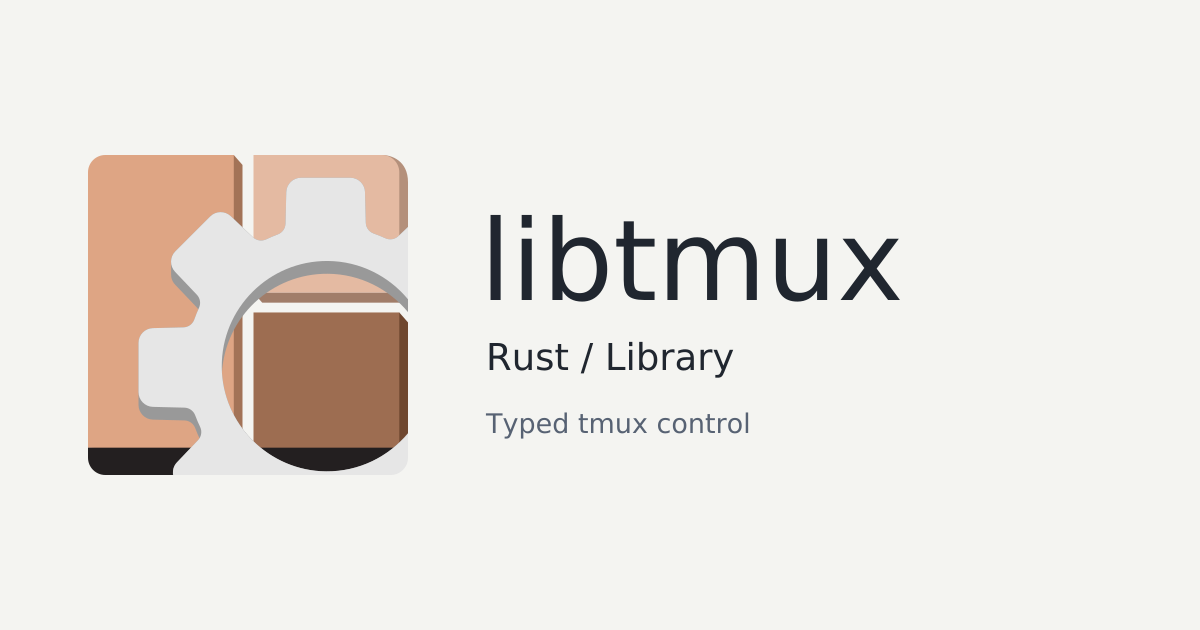
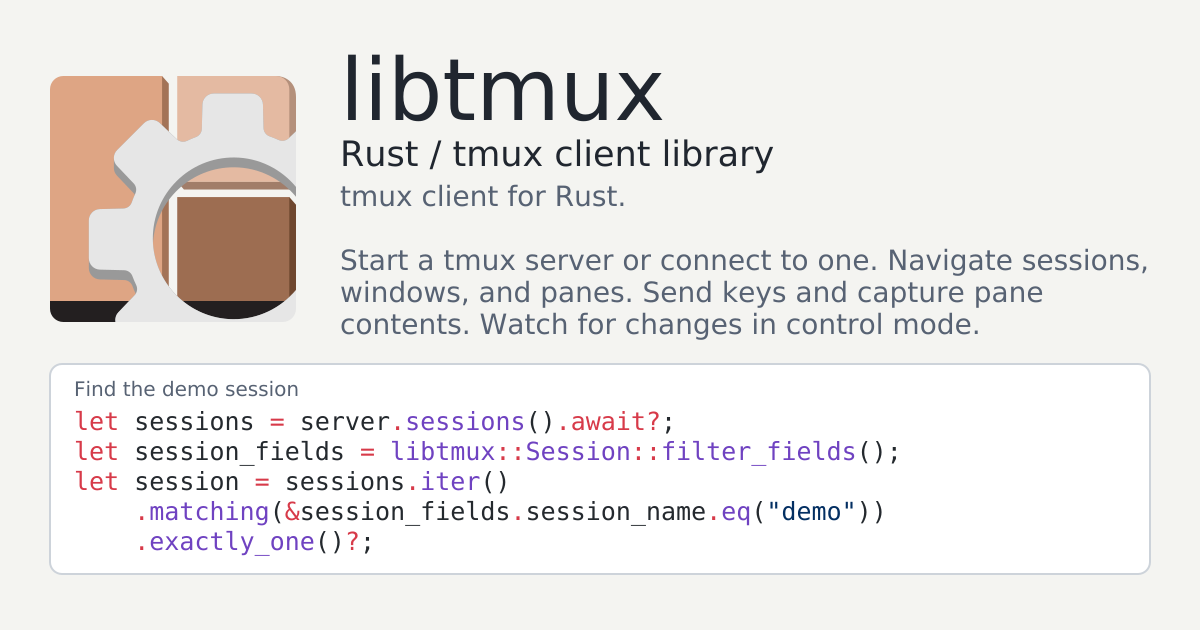
Docs(brand): Show a query on the sharing card
why: Sharing a library link should show how to query tmux in that
language.

what:
- Copy the reviewed sharing artwork and record its source revision

Changed region(s): [[0.0308, 0.0905, 0.9558, 0.8746], [0.0617, 0.9048, 0.9558, 0.9349]]

diff --git a/assets/README.md b/assets/README.md
@@ -12,3 +12,6 @@ symbol comes from the [upstream logo](https://github.com/modelcontextprotocol/mo
 Package-specific artwork sits beside its README where the package format
 supports it. `.github/social-preview.png` is the cog sharing card, ready to
 upload under the repository's **Settings → Social preview**.
+
+The sharing card comes from `assets/rust/library/opengraph-light.png`
+at kit revision `c9688d9db25e4c522ff1255d0f3badaf27d780dd`.
